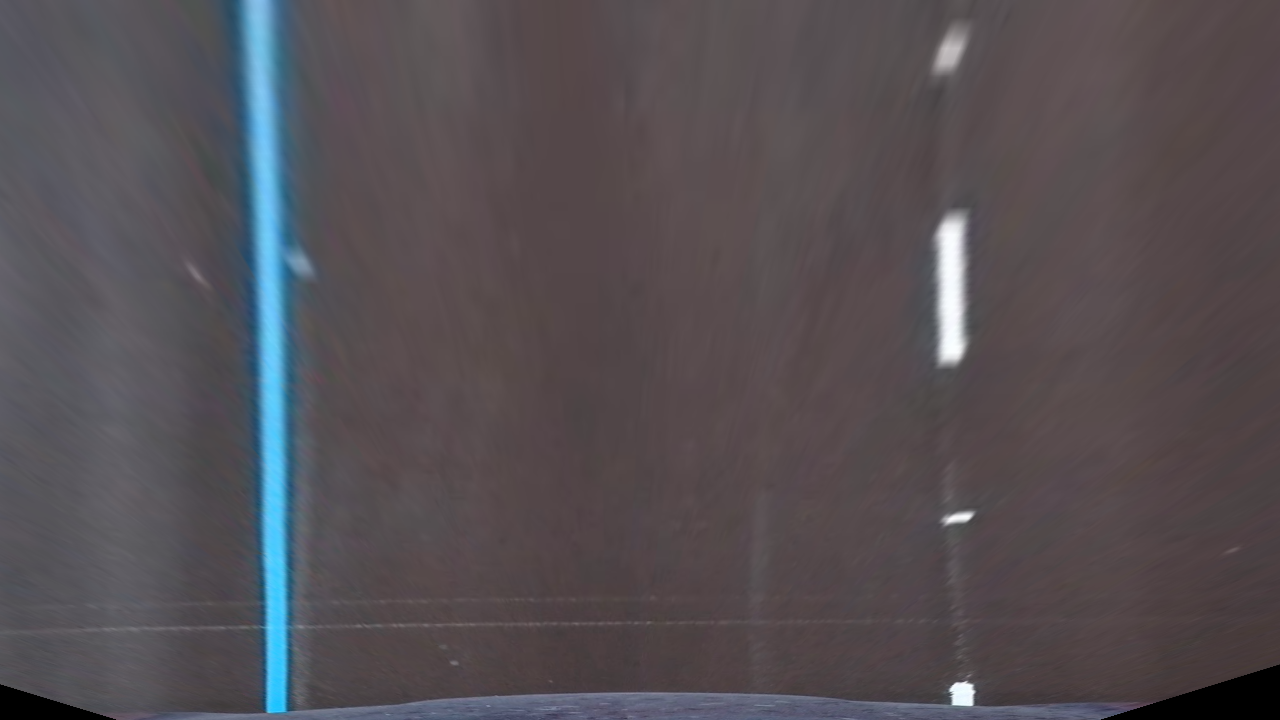
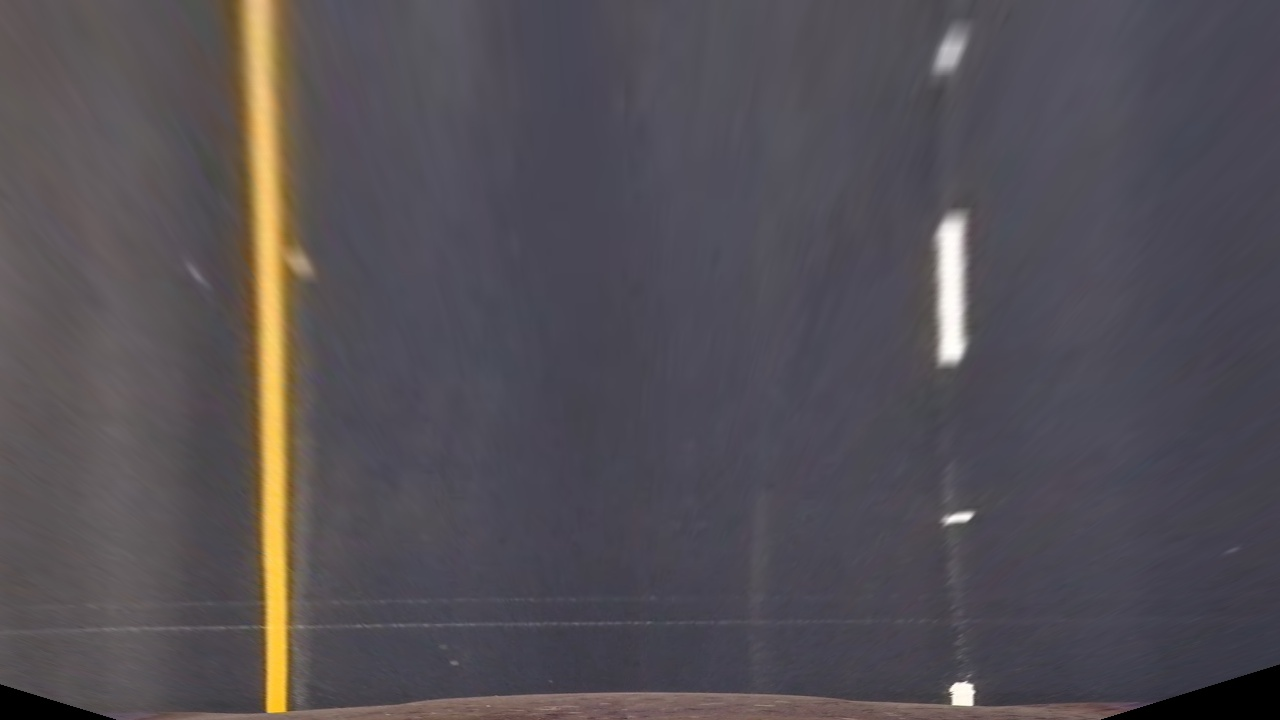
Corrected BGR image saving

Changed region(s): [[0.125, 0.0, 0.875, 1.0]]

diff --git a/imagedistortion.py b/imagedistortion.py
@@ -147,6 +147,6 @@ class Imagedistortion(object):
         # e) use cv2.warpPerspective() to warp your image to a top-down view
         warped = cv2.warpPerspective(undist, M, img_size)
         if(output_folder):
-            plt.imsave(output_folder + 'original_image.jpg', img)
-            plt.imsave(output_folder + 'perspective_transformed.jpg', warped)
+            cv2.imwrite(output_folder + 'original_image.jpg', img)
+            cv2.imwrite(output_folder + 'perspective_transformed.jpg', warped)
         return warped, M

diff --git a/binthreshold.py b/binthreshold.py
@@ -88,7 +88,7 @@ class Binthreshold(object):
             # plt.imsave(output_folder + 'threshold_output_dir_binary.jpg', dir_binary, cmap='gray')
             # plt.imsave(output_folder + 'threshold_output_hls_binary.jpg', hls_binary, cmap='gray')
             plt.imsave(output_folder + 'threshold_output.jpg', combined, cmap='gray')
-            plt.imsave(output_folder + 'threshold_original.jpg', image)
+            cv2.imwrite(output_folder + 'threshold_original.jpg', image)
 
         return combined
 

diff --git a/__main__.py b/__main__.py
@@ -18,6 +18,7 @@ if __name__ == "__main__":
 
     # Wrap image
     original_image = cv2.imread('test_images/straight_lines1.jpg')
+    # original_image = cv2.imread('test_images/test2.jpg')
     warped_image, transform_matrix = \
         Imagedistortion.apply_perspective_transform(original_image,
                                                     paths.CALIBRATION_OUTPUT + 'wide_dist_pickle.p',

diff --git a/drawresult.py b/drawresult.py
@@ -45,7 +45,7 @@ class Drawresult(object):
         result = cv2.addWeighted(original_image, 1, newwarp, 0.3, 0)
         plt.imshow(result)
         if(output_folder is not None):
-            plt.imsave(output_folder + 'result_image.jpg', result)
+            cv2.imwrite(output_folder + 'result_image.jpg', result)
 
         return result
 
